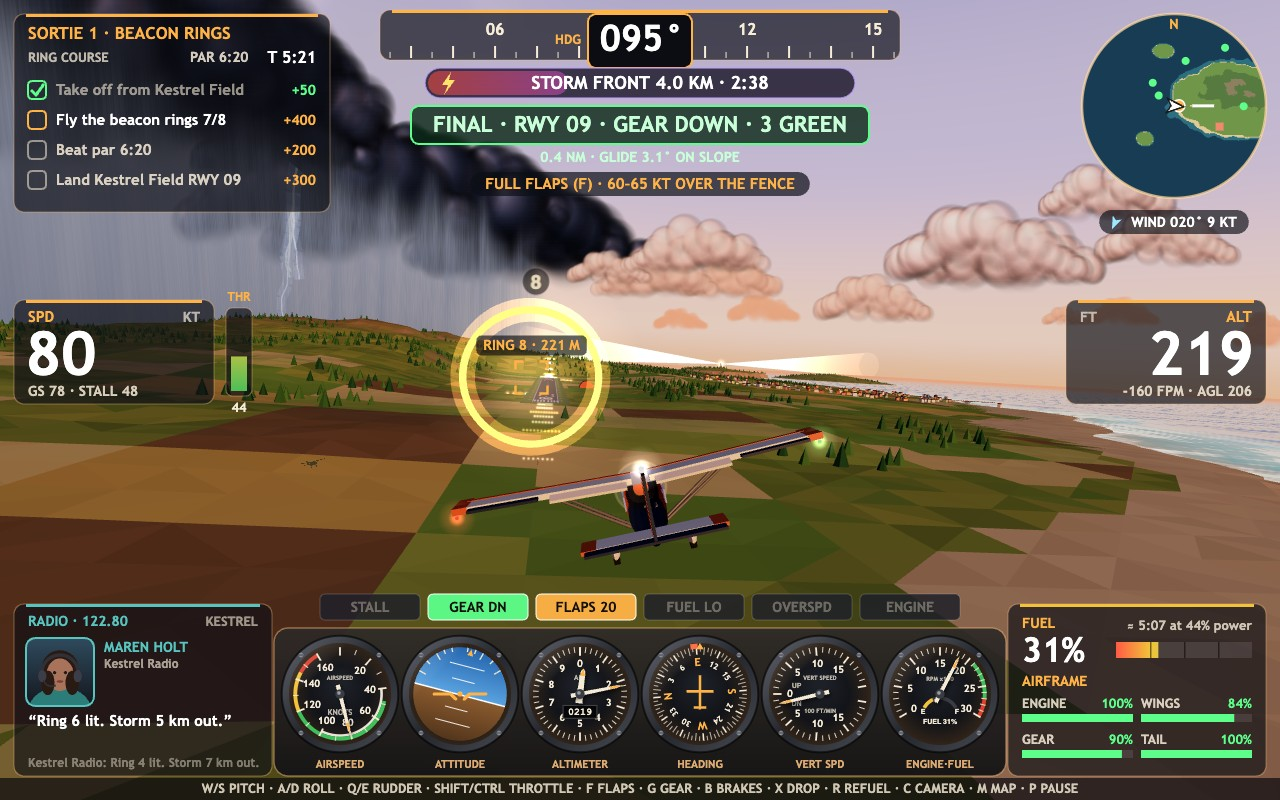
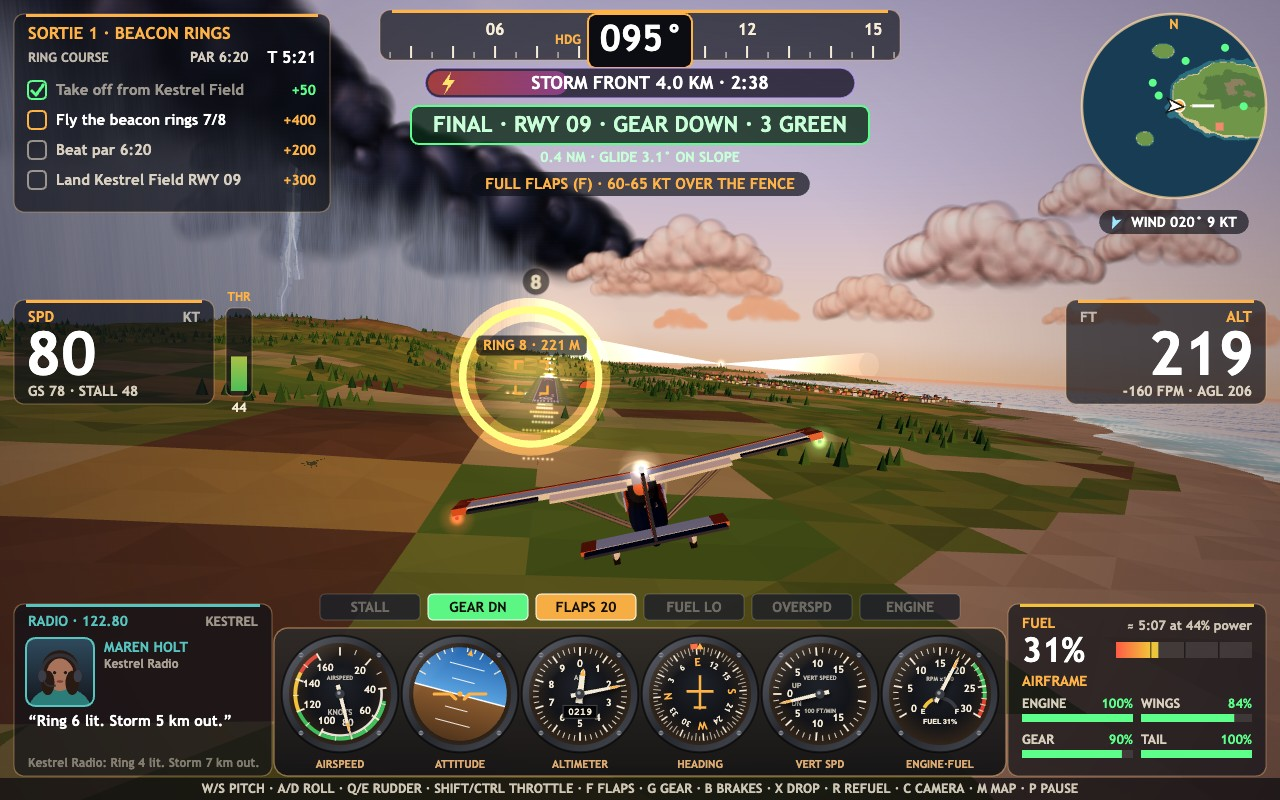
Soft vignette behind the chase-view HUD

diff --git a/game/src/hud.js b/game/src/hud.js
@@ -514,8 +514,14 @@ export function drawFlightHud(g, frame) {
   const bug = (Math.atan2(target.x - a.pos.x, -(target.z - a.pos.z)) * 180) / Math.PI;
   read.bugDeg = (bug + 360) % 360;
 
-  if (!cockpit) targetMarker(g, frame, target, target.label, target.colour);
-  else targetMarker(g, frame, target, target.label, target.colour);
+  if (!cockpit) {
+    const vignette = g.createRadialGradient(W / 2, H * 0.48, H * 0.32, W / 2, H * 0.48, W * 0.62);
+    vignette.addColorStop(0, 'rgba(12,8,24,0)');
+    vignette.addColorStop(1, 'rgba(12,8,24,0.34)');
+    g.fillStyle = vignette;
+    g.fillRect(0, 0, W, H);
+  }
+  targetMarker(g, frame, target, target.label, target.colour);
   headingTape(g, W / 2, 10, 520, read.headingDeg, read.bugDeg);
   stormBar(g, W / 2, 68, session.storm);
   callout(g, W / 2, 106, frame.approach, a);
